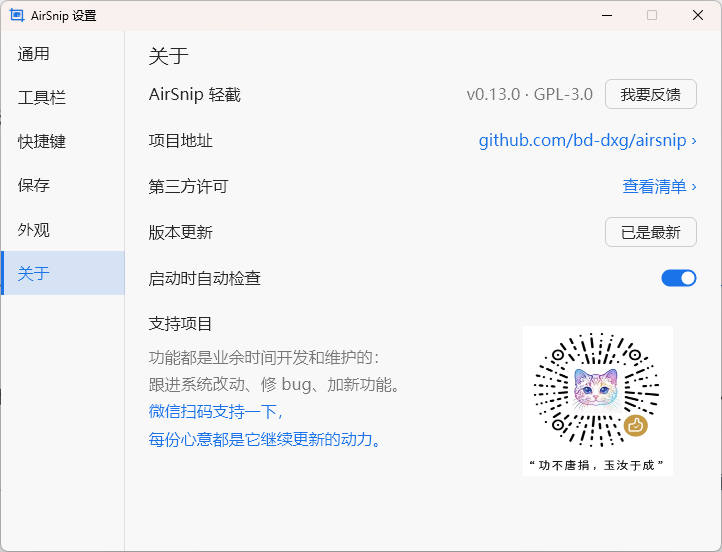
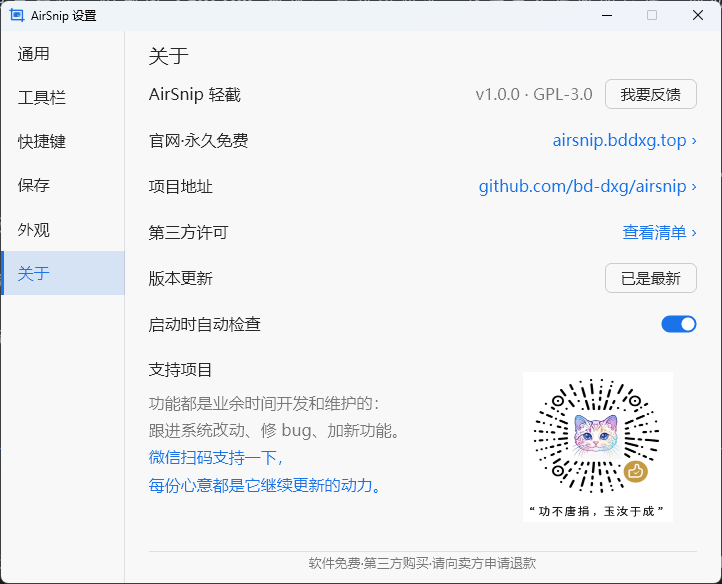
🚀 站点升到 v1.0.0：四门语言与权限说明同步
- site.ts：VERSION 改 v1.0.0，packageSize 改 0.89 MB，stats 单文件 1.60 MB / 下载包 0.89 MB；line 由 VERSION 拼出，GitHub 与 v4.gh-proxy.org 均返回 200 且 Content-Length 一致（928684 字节）
- releaseUpdate 换成 v1.0.0 的四条事实：四门语言切换立即生效、highestAvailable 让标准账户不再被 UAC 挡在启动前、关于页标明官网渠道与退款说明、长截图对半透明窗口直说类别；ReleaseNotes 新增 language / shield / link 三个内联图标，桌面 2×2
- 文档同步：getting-started / download / faq 把「需要管理员权限」改成管理员账户自动提权、标准账户以普通权限运行（截不到管理员窗口时弹托盘气泡）；features 补界面语言与关于页官网；performance 与 index 的体积改 1.60 / 0.89、1.5 → 1.6 MB
- general / about 截图换新版（722×584）：caption、alt、width / height 按图中内容重写，features / getting-started / license 三处内联 img 同步
- README 的 VERSION 示例与体积口径记录同步到 v1.0.0
- 验证：tsc --noEmit 与 pnpm build 零错误零警告

diff --git a/docs/.vitepress/data/site.ts b/docs/.vitepress/data/site.ts
@@ -64,6 +64,9 @@ export interface ReleaseChange {
     | 'clipboard'
     | 'shapes'
     | 'layout'
+    | 'language'
+    | 'shield'
+    | 'link'
   title: string
   body: string
 }
@@ -94,7 +97,7 @@ export const THIRD_PARTY_URL = `${REPO_URL}/blob/main/THIRD-PARTY.md`
 export const PERF_URL = `${REPO_URL}/blob/main/docs/perf-m5.md`
 
 // 由作者维护：改这里即可让下载地址与页面上显示的版本号同步更新
-export const VERSION = 'v0.14.0'
+export const VERSION = 'v1.0.0'
 
 /** 当前版本的 Release 页面，用于「完整更新日志」 */
 export const RELEASE_URL = `${RELEASES_URL}/tag/${VERSION}`
@@ -116,20 +119,20 @@ export const DESCRIPTION = '1 MB 的 Windows 截图标注工具（Rust，纯 CPU
 export const downloadInfo = {
   platform: 'Windows x64',
   portable: '绿色免安装',
-  packageSize: '0.87 MB',
+  packageSize: '0.89 MB',
   license: 'GPL-3.0-only',
 } as const
 
 export const stats: Stat[] = [
   {
     label: '单文件体积',
-    value: '1.56',
+    value: '1.60',
     unit: 'MB',
     note: '一个 exe 就是全部',
   },
   {
     label: '下载包',
-    value: '0.87',
+    value: '0.89',
     unit: 'MB',
     note: 'zip，含文档与许可证',
   },
@@ -168,19 +171,24 @@ export const releaseUpdate: ReleaseUpdate = {
   title: '这次更新了什么',
   changes: [
     {
-      icon: 'number',
-      title: '序号升级成徽标：数字 / 对勾 / 叉号',
-      body: '序号标记换成徽标，内容三态是数字、对勾、叉号，用来标「这里对、这里错」。没有新增工具栏按钮——第一行宽度已经贴着 1366×768 @ 200% 的上限，改成序号格子右下角多一个 ▾，点开是三行下拉。符号不占编号：一张图里混放 1、✓、✕、2 仍是 1、2。符号用矢量描边画，换任何字体都不会变成豆腐块，和徽标的圆形比例也始终一致。放置后要改：符号徽标双击直接在对勾 / 叉号之间切换，一次 Ctrl+Z 可回退；编号徽标双击仍进编辑框，直接打 v / √ / ✓ 或 x / × / ✕ 就行，不需要输入法。',
+      icon: 'language',
+      title: '界面支持四门语言，切换立即生效',
+      body: '设置 →「通用」→「语言」可选简体中文、繁體中文、English、日本語，选完立即生效，界面不重开、不闪烁。默认跟随系统：简体中文系统照旧，不支持的系统语言一律回落 English，非中文用户第一次打开不会看到一屏中文。文案全部进语言表并在编译期嵌入，漏一条是编译错误，不会突然冒出一句中文。四门语言各用系统自带的界面字体；标注内容字体不跟着界面语言变，导出的图不会因为换个界面语言就变样。',
+    },
+    {
+      icon: 'shield',
+      title: '拿不到管理员权限也能启动',
+      body: 'manifest 从「强制管理员」改为 highestAvailable：管理员账户照旧自动提权，行为完全不变；公司 / 学校统一管理、拿不到 UAC 凭据的标准账户不再卡在启动之前，以普通权限直接运行。代价是截不到以管理员身份运行的程序窗口（UIPI 限制），启动时弹一次托盘气泡说明原因。开机自启的权限级别跟随当前账户，「我要反馈」的系统信息里也带上了当前权限。',
+    },
+    {
+      icon: 'link',
+      title: '关于页标明官方下载渠道',
+      body: 'GPL-3.0 允许第三方原样打包再收费分发，技术上防不住；能做的只是让拿到打包版的用户知道官方版本免费。关于页新增「官网 · 永久免费」一行（airsnip.bddxg.top），底部一条小字提示「软件免费 · 第三方购买 · 请向卖方申请退款」。',
     },
     {
       icon: 'longshot',
-      title: '长截图：局部动画不打断，快滚也接得上',
-      body: '页面里有轮播图、GIF 头像、闪烁光标、进度条这类动画时不再整段失败——每行切 8 段各算哈希，5 段一致就算这行没变，动画只影响它所在的那一小段。快速滚动（超过半屏）也能接上：重叠区最小要求从半个内容区放宽到 1/5，所有候选位移都参与打分取最优。白底 / 内容稀疏的页面一滚动就被判「静止」的毛病修好了。吸顶导航、底部工具栏、左右粘滞侧栏都只留在最上面（最左）一份，纯色列不会被误遮。失败也不丢内容：参考帧只跟着成功拼入的部分前进，滚太快定位失败时往回落一点就能接上。',
-    },
-    {
-      icon: 'tooltip',
-      title: '长截图日志默认就写，一键打开文件夹',
-      body: '排查长截图问题不用再退出托盘、开 PowerShell、设 AIRSNIP_DEBUG=1、去 %TEMP% 里翻文件：日志现在默认就在写，设置 →「通用」页底部点「打开日志文件夹」就能拿到。日志只有状态文本（滚动位置、匹配得分、画面变化比例），不含页面内容、不含账号密码；超过 4MB 自动轮转成 .log.1，只保留最近一段。定位异常时会把两帧画面存成 PNG（每次运行最多 6 对），问题解决后随手删掉即可。长截图状态条的按钮也补齐了悬停反馈：停留 400ms 弹出「名称 · 快捷键」气泡。',
+      title: '长截图遇到半透明窗口，直说是哪一类',
+      body: '抓到半透明 / 分层窗口时拼接会失败，现在直接告诉你是哪一类窗口，而不是只报一句「定位失败」。根因同时记进日志，设置 →「通用」页底部点「打开日志文件夹」就能拿到 %TEMP%\\airsnip\\ 下的文件，报障时一并附上即可。',
     },
   ],
 }
@@ -374,11 +382,11 @@ export const screenshots: Screenshot[] = [
     id: 'general',
     title: '通用',
     caption:
-      '「通用」页：开机自启、连按两次 Esc / 右键退出两个开关，语言（简体中文），贴图位置·截图原位置与双击选区空白·复制截图两个开关，以及窗口吸附、控件级捕捉（默认开）。',
-    alt: 'AirSnip 设置窗口的「通用」页，含开机自启、连按两次 Esc / 右键退出、语言、贴图位置、双击选区空白、窗口吸附与控件级捕捉',
+      '「通用」页：开机自启、连按两次 Esc / 右键退出两个开关，语言（跟随系统），贴图位置·截图原位置与双击选区空白·复制截图两个开关，窗口吸附、控件级捕捉（默认开），以及页脚长截图日志的「打开日志文件夹」。',
+    alt: 'AirSnip 设置窗口的「通用」页，含开机自启、连按两次 Esc / 右键退出、语言（跟随系统）、贴图位置、双击选区空白、窗口吸附与控件级捕捉，以及长截图日志的打开日志文件夹按钮',
     src: '/images/general.webp',
     width: 722,
-    height: 552,
+    height: 584,
   },
   {
     id: 'toolbar',
@@ -424,11 +432,11 @@ export const screenshots: Screenshot[] = [
     id: 'about',
     title: '关于',
     caption:
-      '「关于」页：版本号与 GPL-3.0 许可，行右侧是「我要反馈」按钮；下面依次是项目地址、第三方许可清单入口、版本更新（含启动时自动检查开关，图中显示已是最新），以及作者的支持项目说明与赞赏二维码（原样展示）。',
-    alt: 'AirSnip 设置窗口的「关于」页，含版本号、GPL-3.0 许可、我要反馈按钮、项目地址、第三方许可入口、版本更新与启动时自动检查开关，以及支持项目二维码',
+      '「关于」页：版本号与 GPL-3.0 许可，行右侧是「我要反馈」按钮；下面依次是「官网·永久免费」（airsnip.bddxg.top）、项目地址、第三方许可清单入口、版本更新（含启动时自动检查开关，图中显示已是最新），以及作者的支持项目说明与赞赏二维码（原样展示）；底部一行小字提示软件免费、第三方购买请向卖方申请退款。',
+    alt: 'AirSnip 设置窗口的「关于」页，含版本号、GPL-3.0 许可、我要反馈按钮、官网·永久免费一行、项目地址、第三方许可入口、版本更新与启动时自动检查开关、支持项目二维码，以及底部软件免费提示',
     src: '/images/about.webp',
     width: 722,
-    height: 552,
+    height: 584,
   },
 ]
 

diff --git a/docs/.vitepress/theme/components/ReleaseNotes.vue b/docs/.vitepress/theme/components/ReleaseNotes.vue
@@ -35,6 +35,12 @@ const icons: Record<ReleaseChange['icon'], string> = {
     '<path d="M3 20 9 8"/><circle cx="9" cy="8" r=".6" fill="currentColor"/><ellipse cx="16.5" cy="16" rx="4.5" ry="4"/>',
   layout:
     '<rect width="18" height="18" x="3" y="3" rx="2"/><path d="M3 9h18"/><path d="M9 21V9"/>',
+  language:
+    '<path d="m5 8 6 6"/><path d="m4 14 6-6 2-3"/><path d="M2 5h12"/><path d="M7 2h1"/><path d="m22 22-5-10-5 10"/><path d="M14 18h6"/>',
+  shield:
+    '<path d="M20 13c0 5-3.5 7.5-7.66 8.95a1 1 0 0 1-.67-.01C7.5 20.5 4 18 4 13V6a1 1 0 0 1 1-1c2 0 4.5-1.2 6.24-2.72a1.17 1.17 0 0 1 1.52 0C14.51 3.81 17 5 19 5a1 1 0 0 1 1 1z"/><path d="m9 12 2 2 4-4"/>',
+  link:
+    '<path d="M10 13a5 5 0 0 0 7.54.54l3-3a5 5 0 0 0-7.07-7.07l-1.72 1.71"/><path d="M14 11a5 5 0 0 0-7.54-.54l-3 3a5 5 0 0 0 7.07 7.07l1.71-1.71"/>',
 }
 </script>
 

diff --git a/docs/guide/features.md b/docs/guide/features.md
@@ -34,7 +34,7 @@ import ToolShowcase from '../.vitepress/theme/components/ToolShowcase.vue'
 
 <figure class="as-shot">
   <div class="as-window">
-    <img src="/images/general.webp" alt="AirSnip 设置窗口的「通用」页，含开机自启、连按两次 Esc / 右键退出、语言、贴图位置、双击选区空白、窗口吸附与控件级捕捉" width="722" height="552" loading="lazy" decoding="async" />
+    <img src="/images/general.webp" alt="AirSnip 设置窗口的「通用」页，含开机自启、连按两次 Esc / 右键退出、语言（跟随系统）、贴图位置、双击选区空白、窗口吸附与控件级捕捉，以及长截图日志的打开日志文件夹按钮" width="722" height="584" loading="lazy" decoding="async" />
   </div>
   <figcaption>设置面板「通用」页：开机自启、语言、贴图位置、双击动作，以及窗口吸附与控件级捕捉两个开关。</figcaption>
 </figure>
@@ -83,6 +83,7 @@ import ToolShowcase from '../.vitepress/theme/components/ToolShowcase.vue'
 ## 设置 {#settings}
 
 - 自绘面板，跟随系统深浅色
+- 界面语言：简体中文 / 繁體中文 / English / 日本語（设置 → 「通用」），默认跟随系统，不支持的系统语言回落 English；选完立即生效，界面不重开。界面文案全部编译期嵌入，标注内容的字体不跟界面语言变
 - 「外观」设置：调整软件主题，支持跟随系统切换、自适应；界面缩放可选自动或 100%–200% 固定档位，作用于全部界面（设置面板、覆盖层工具栏、贴图窗口）
 - 「工具栏」页：24 个元素逐项显隐（移动 + 10 个工具、3 个色块、填充·线型·撤销·重做·字体行、贴图·长截图、复制·快存·保存），组头可整组全显或全隐；隐藏只影响绘制，快捷键与输出照旧——藏了保存按钮，`Ctrl+S` 照样能存
 - 开机自启、「连按两次 Esc / 右键退出」、窗口吸附与控件级捕捉（默认都开，关掉后行为与旧版一致）
@@ -90,7 +91,7 @@ import ToolShowcase from '../.vitepress/theme/components/ToolShowcase.vue'
 - 快捷键页分「截图 / 输出 / 工具」三页，共 20 项，全部可改（含冲突检测与输入法兼容）；每一项都能清空为「未设置」，底部「恢复默认」一键还原全部快捷键
 - 贴图默认位置（一行开关：开 = 屏幕中间、关 = 原位置）、双击选区空白的动作（复制 / 贴图）、保存路径模板、主题；开关点完立即生效并写盘
 - 自动更新：启动后静默检查新版本，发现后弹托盘气泡；可以在「关于」→ 版本更新里关掉「启动时自动检查」，也可以在那里手动更新
-- 「关于」页：版本、许可、第三方组件清单、项目地址，以及「我要反馈」——一键把版本号、Windows 版本、显示器与显卡信息写进剪贴板（不收集用户名、保存路径与截图内容）
+- 「关于」页：版本、许可、「官网·永久免费」渠道、第三方组件清单、项目地址，以及「我要反馈」——一键把版本号、Windows 版本、显示器与显卡信息写进剪贴板（不收集用户名、保存路径与截图内容）；底部标明软件免费，从第三方购买请向卖方申请退款
 
 <figure class="as-shot">
   <div class="as-window">

diff --git a/docs/guide/getting-started.md b/docs/guide/getting-started.md
@@ -1,6 +1,6 @@
 ---
 title: 快速上手
-description: 下载、启动与基本配置：AirSnip 是绿色单文件，解压即用，无需安装，首次运行需要管理员权限。
+description: 下载、启动与基本配置：AirSnip 是绿色单文件，解压即用，无需安装；管理员账户首次运行会弹一次 UAC 确认提权。
 ---
 
 # 快速上手
@@ -9,13 +9,13 @@ AirSnip 是绿色单文件，解压即用，不写注册表。下面是完整启
 
 ## 1. 下载并解压
 
-点击下载按钮获取 zip（约 0.87 MB，含文档与许可证），解压到任意目录。
+点击下载按钮获取 zip（约 0.89 MB，含文档与许可证），解压到任意目录。
 
 <DownloadCard />
 
 ## 2. 双击 airsnip.exe
 
-程序需要管理员权限（否则无法覆盖管理员权限的窗口），首次运行会弹 UAC，选「是」。
+管理员账户会弹一次 UAC 确认提权（这样才能截到管理员权限的窗口），选「是」；标准账户（公司 / 学校统一管理、拿不到 UAC 凭据）不弹 UAC，直接以普通权限运行，代价是截不到以管理员身份运行的程序窗口，启动时会弹一次托盘气泡说明原因。
 
 ::: tip 首次运行提示
 如遇 Windows SmartScreen 提示，点「更多信息」→「仍要运行」。
@@ -31,7 +31,7 @@ AirSnip 是绿色单文件，解压即用，不写注册表。下面是完整启
 
 <figure class="as-shot">
   <div class="as-window">
-    <img src="/images/general.webp" alt="AirSnip 设置窗口的「通用」页，含开机自启、连按两次 Esc / 右键退出、语言、贴图位置、双击选区空白、窗口吸附与控件级捕捉" width="722" height="552" loading="lazy" decoding="async" />
+    <img src="/images/general.webp" alt="AirSnip 设置窗口的「通用」页，含开机自启、连按两次 Esc / 右键退出、语言（跟随系统）、贴图位置、双击选区空白、窗口吸附与控件级捕捉，以及长截图日志的打开日志文件夹按钮" width="722" height="584" loading="lazy" decoding="async" />
   </div>
   <figcaption>设置面板「通用」页：开机自启、语言、贴图位置、双击动作，以及窗口吸附与控件级捕捉。</figcaption>
 </figure>

diff --git a/README.md b/README.md
@@ -65,7 +65,7 @@ docs/
 只改 `docs/.vitepress/data/site.ts`：
 
 ```ts
-export const VERSION = 'v0.14.0'                   // 版本号
+export const VERSION = 'v1.0.0'                   // 版本号
 export const MIRROR_PREFIX = 'https://v4.gh-proxy.org/' // 国内加速站前缀
 ```
 
@@ -94,7 +94,7 @@ https://github.com/bd-dxg/airsnip/releases/download/<VERSION>/airsnip-<VERSION>-
 
 ## TODO（待作者 / 人工确认）
 
-1. **下载包体积口径**：`v0.14.0` 的 `airsnip-v0.14.0-win-x64.zip` 实测为 907,626 字节（约 0.87 MiB / 0.91 MB 十进制），页面写的是「约 0.87 MB」（按 MiB 计，与历次口径一致）。如需精确，改 `downloadInfo.packageSize`。
+1. **下载包体积口径**：`v1.0.0` 的 `airsnip-v1.0.0-win-x64.zip` 实测为 928,684 字节（约 0.89 MiB / 0.93 MB 十进制），页面写的是「约 0.89 MB」（按 MiB 计，与历次口径一致）；单个 exe 为 1,680,896 字节（约 1.60 MiB）。如需精确，改 `downloadInfo.packageSize` 与 `stats`。
 2. **截图为 WebP**：作者提供的原图为 `.webp`（文档示例写的是 `.jpg`）。为避免引入图片处理依赖，站点直接引用 webp，未做转码；`og:image` 同样是 webp，个别社交平台预览支持有限，如需要可另出一张 png。
 3. **图片体积**：7 张图片当前均小于 450 KB（最大为 `hero.webp` 约 417 KB），暂不需要压缩。
 4. **`about.webp` 中的赞助信息**：按文档要求原样展示，站点不新增任何赞助页或收款码。

diff --git a/docs/download.md b/docs/download.md
@@ -1,6 +1,6 @@
 ---
 title: 下载
-description: 下载 AirSnip：Windows x64 绿色单文件，约 0.87 MB，解压即用，无需安装。
+description: 下载 AirSnip：Windows x64 绿色单文件，约 0.89 MB，解压即用，无需安装。
 ---
 
 # 下载
@@ -10,7 +10,7 @@ description: 下载 AirSnip：Windows x64 绿色单文件，约 0.87 MB，解压
 ## 安装步骤
 
 1. 点击下载按钮获取 zip，解压到任意目录（绿色单文件，无需安装）
-2. 双击 `airsnip.exe`：程序需要管理员权限（否则无法覆盖管理员权限的窗口），首次运行弹 UAC，选「是」
+2. 双击 `airsnip.exe`：管理员账户会弹一次 UAC 确认提权（才能截到管理员权限的窗口）；标准账户不弹 UAC，直接以普通权限运行，代价是截不到管理员程序窗口
 3. 启动后托盘常驻（无主窗口），`F1` 截图 / `F3` 贴图（托盘菜单里也有「截图」「从剪贴板贴图」）
 4. 托盘左键打开设置，右键菜单为「设置 / 退出」
 5. 需要新版本时，设置 → 「关于」页可以检查并更新，默认启动时自动检查

diff --git a/docs/about/license.md b/docs/about/license.md
@@ -15,7 +15,7 @@ AirSnip 以 **GPL-3.0-only** 开源，源码与问题反馈都在 [GitHub 仓库
 
 <figure class="as-shot">
   <div class="as-window">
-    <img src="/images/about.webp" alt="AirSnip 设置窗口的「关于」页，含版本号、GPL-3.0 许可、我要反馈按钮、项目地址、第三方许可入口、版本更新与支持项目二维码" width="722" height="552" loading="lazy" decoding="async" />
+    <img src="/images/about.webp" alt="AirSnip 设置窗口的「关于」页，含版本号、GPL-3.0 许可、我要反馈按钮、官网·永久免费一行、项目地址、第三方许可入口、版本更新与支持项目二维码，以及底部软件免费提示" width="722" height="584" loading="lazy" decoding="async" />
   </div>
-  <figcaption>软件「关于」页：版本、许可、项目地址、第三方许可入口与作者的支持项目。</figcaption>
+  <figcaption>软件「关于」页：版本、许可、官网·永久免费一行、项目地址、第三方许可入口与作者的支持项目。</figcaption>
 </figure>

diff --git a/docs/index.md b/docs/index.md
@@ -2,11 +2,11 @@
 layout: home
 title: AirSnip 轻截 · 1 MB 的 Windows 截图标注工具
 titleTemplate: false
-description: AirSnip 轻截是 1 MB 的 Windows 截图标注工具：单文件 1.5 MB、待机 0% CPU、按热键 124 ms 出画面。标注、长截图、贴图，功能一样不少。
+description: AirSnip 轻截是 1 MB 的 Windows 截图标注工具：单文件 1.6 MB、待机 0% CPU、按热键 124 ms 出画面。标注、长截图、贴图，功能一样不少。
 hero:
   name: AirSnip
   text: 1 MB 的 Windows 截图标注工具
-  tagline: 单文件 1.5 MB、待机 0% CPU、按热键 0.12 秒出画面。标注、长截图、贴图，功能一样不少。
+  tagline: 单文件 1.6 MB、待机 0% CPU、按热键 0.12 秒出画面。标注、长截图、贴图，功能一样不少。
   actions:
     - theme: brand
       text: 下载
